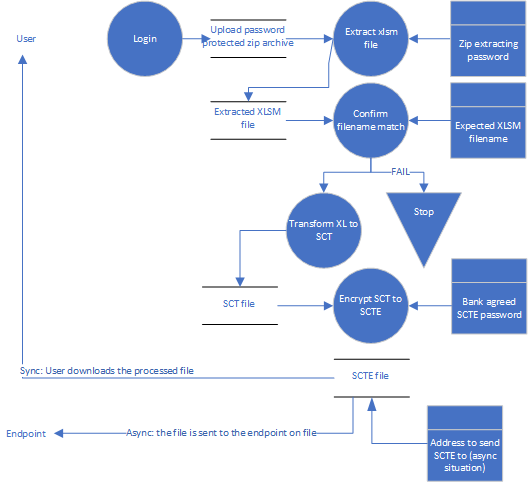
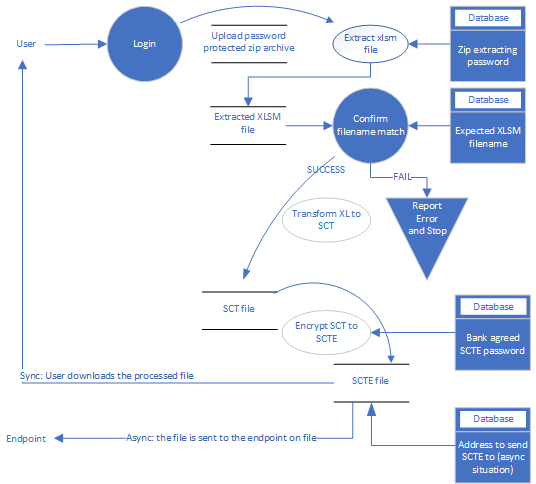
Version 1.35.00 adjustments. See VERSIONING.md for change log

diff --git a/Overview.md b/Overview.md
@@ -1,16 +1,18 @@
 # Embedding the solution into a portal
 
-The design of this solution was built so that it could form part of a client facing portal with this being one of the options.
+The design of this solution was built so that it could be integrated into a larger solution that  part of a client facing portal with this being one of the options.
 
 ![](images/overview001.png)
 
-1. The user would log into a portal using their credentials.
-2. After they are validated the user would upload the zip file to the portal for processing.
-3. Associated with the portal would the the password the zip file (**zippass**) is encrypted with. This could be altered by the user.
-4. The conversion engine would unzip the encrypted file, process it and encrypt the output with the password agreed with the bank (**bankSCTE**).
-5. Once the SCTE file is ready, the solution:
-    - transmit the file to the financial institution directly 
-    - allow the user to download the file to perform the transmission part themselves.
+1. The user would log into a portal using their credentials (Username, Password, 2FA)
+2. The authenticated user uploads the password-protected zip to the portal. *The contents of the file cannot be read while in transit.*
+3. The system would extract the contents of the zip archive using the password fetched from the secure database (**zippass**).
+4. The extracted XLSM file name would be validated against what is expected (**xlfile**). *This constitutes an additional layer of security*.
+5. The XL file is transformed into the SCT file format.
+6. The SCT file is converted into SCTE using the financial-institution agreed password (**bankSCTE**).
+7. Once the SCTE file is ready, the solution would:
+    - (async) transmit the file to the financial institution directly 
+    - (sync) allow the user to download the file to perform the transmission part themselves.
+8. Code cleanup.
     
-The system could be designed in such a way that the bank-agreed password would be known to a different subset of persons than those processing the file. This would allow for a segregation of duties. This constitutes a security measure that ensure that no one individual has enough information or access privilege to perpetrate damaging fraud.
-
+The parameter **bankSCTE** could be determined without the knowledge of the person who uploads the file. *This results in a solution in which the end-2-end process is not know to a single person.
